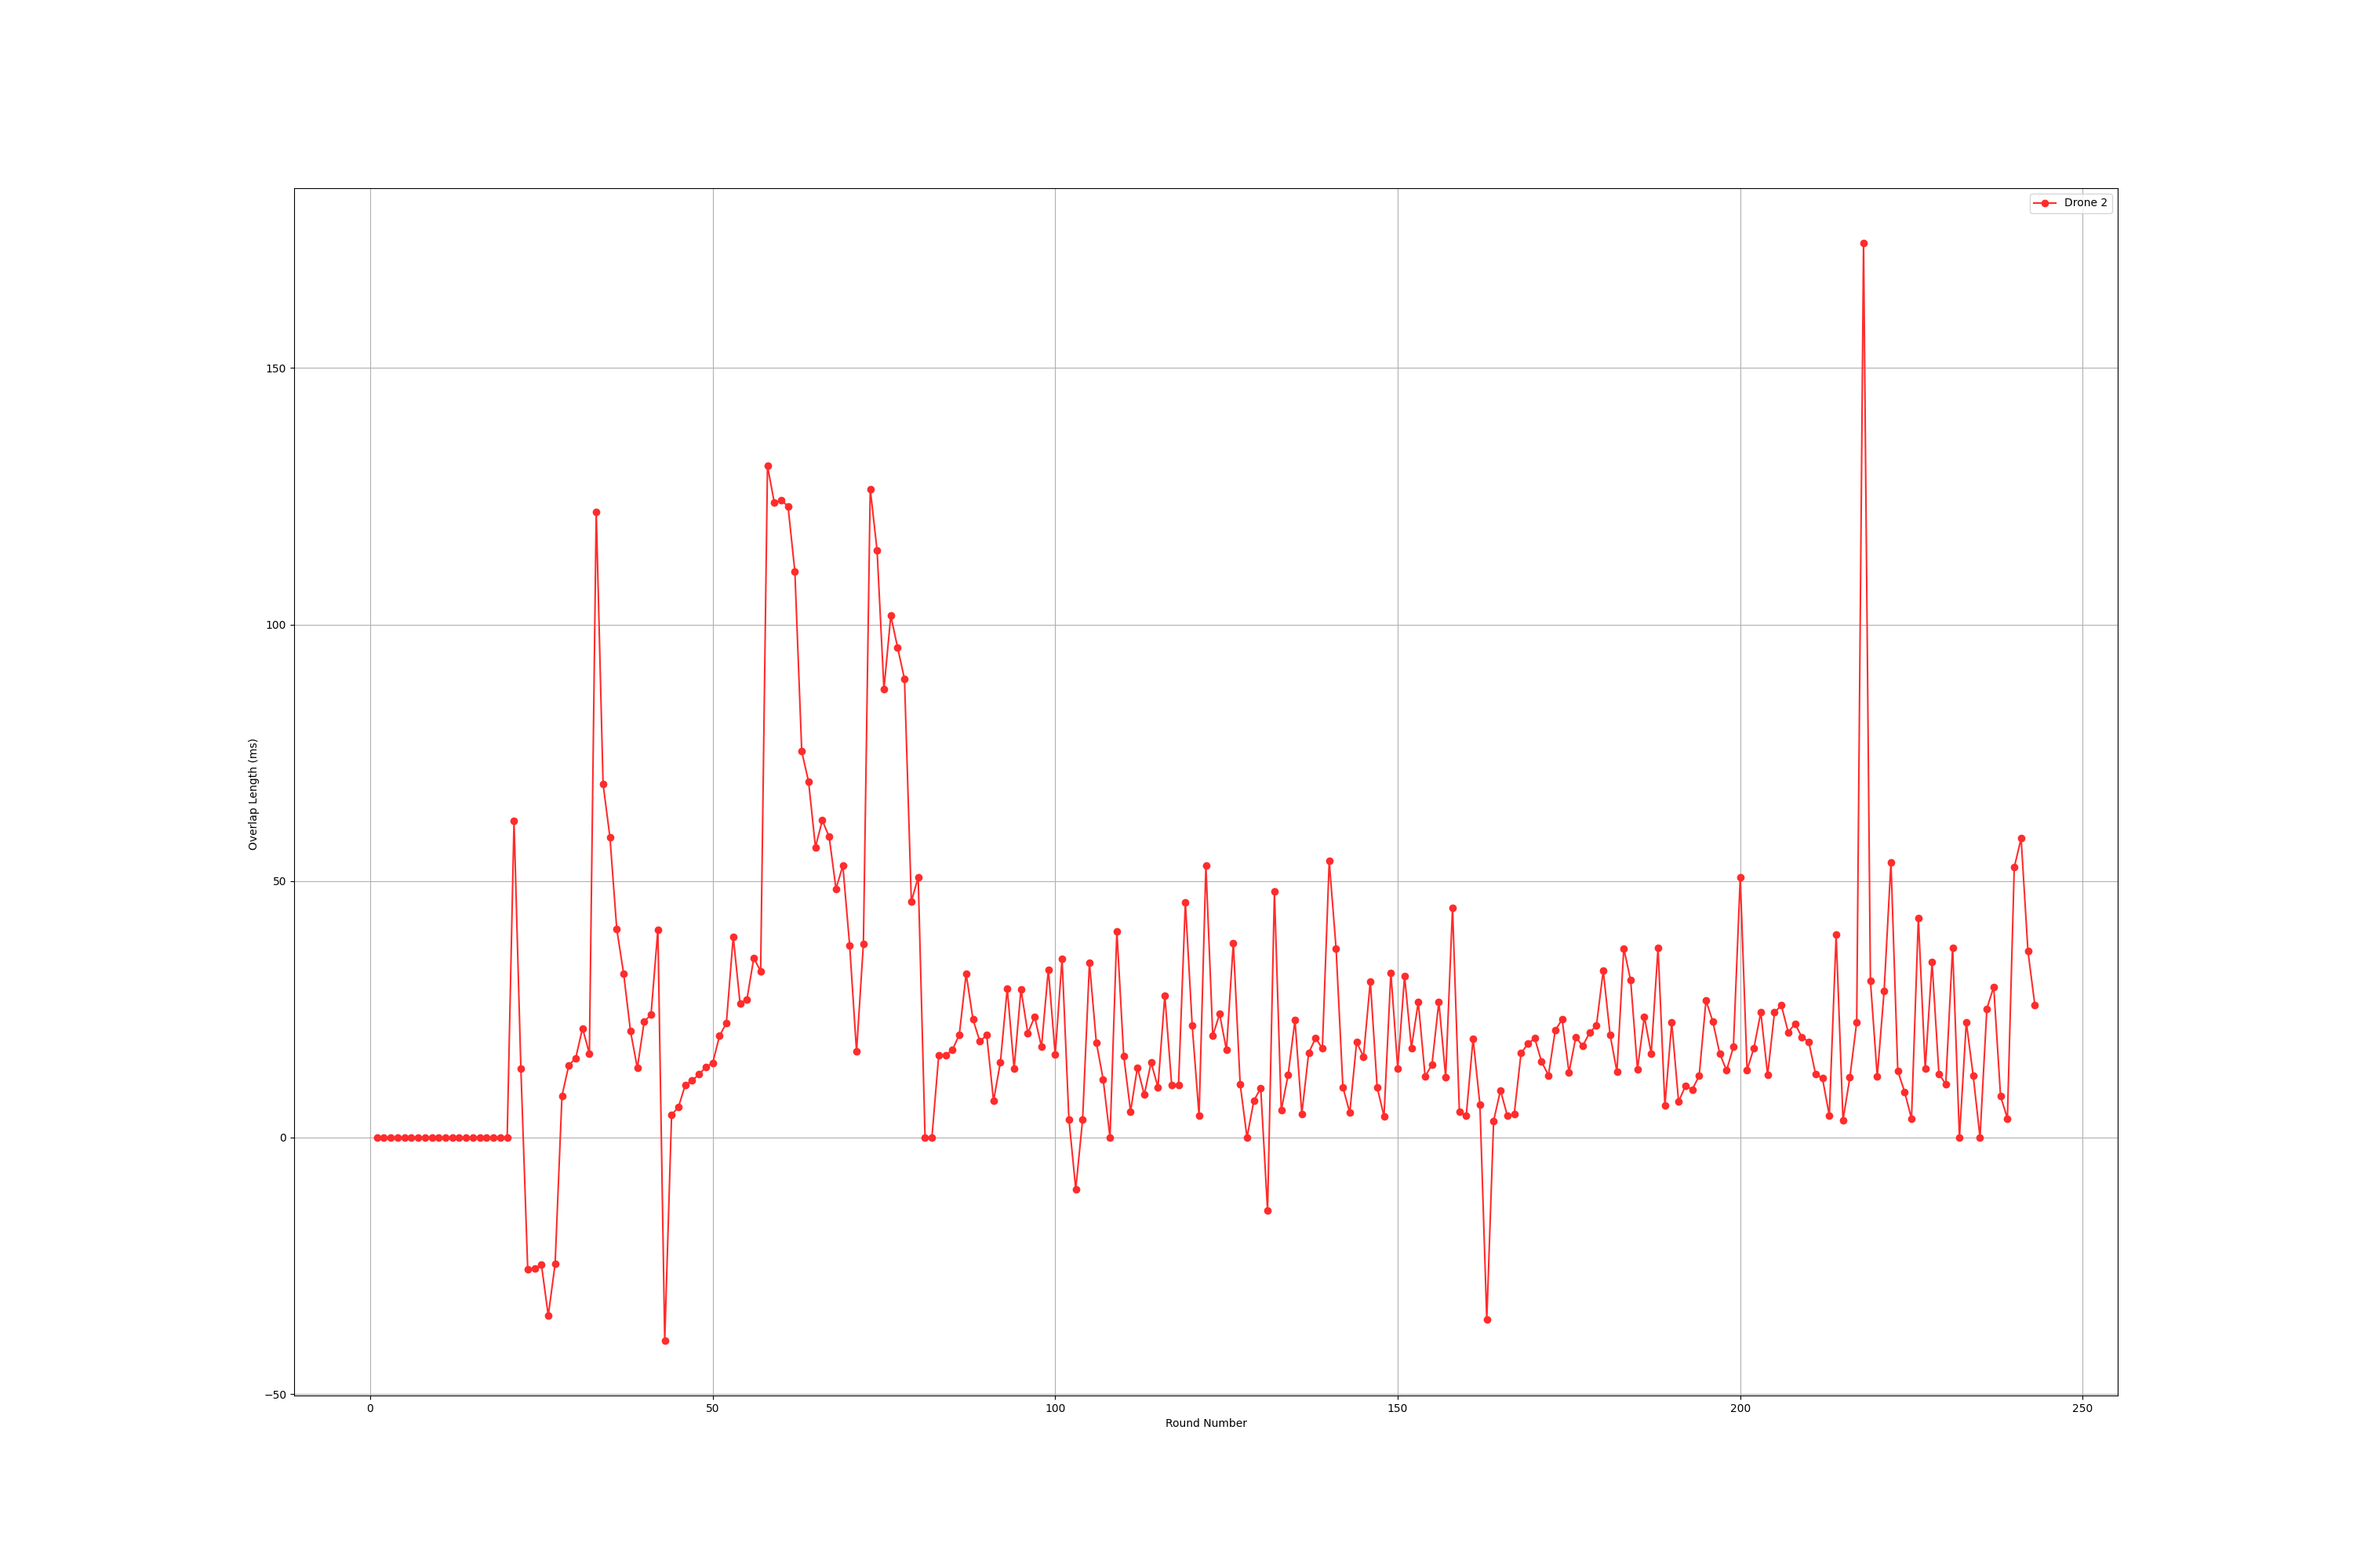
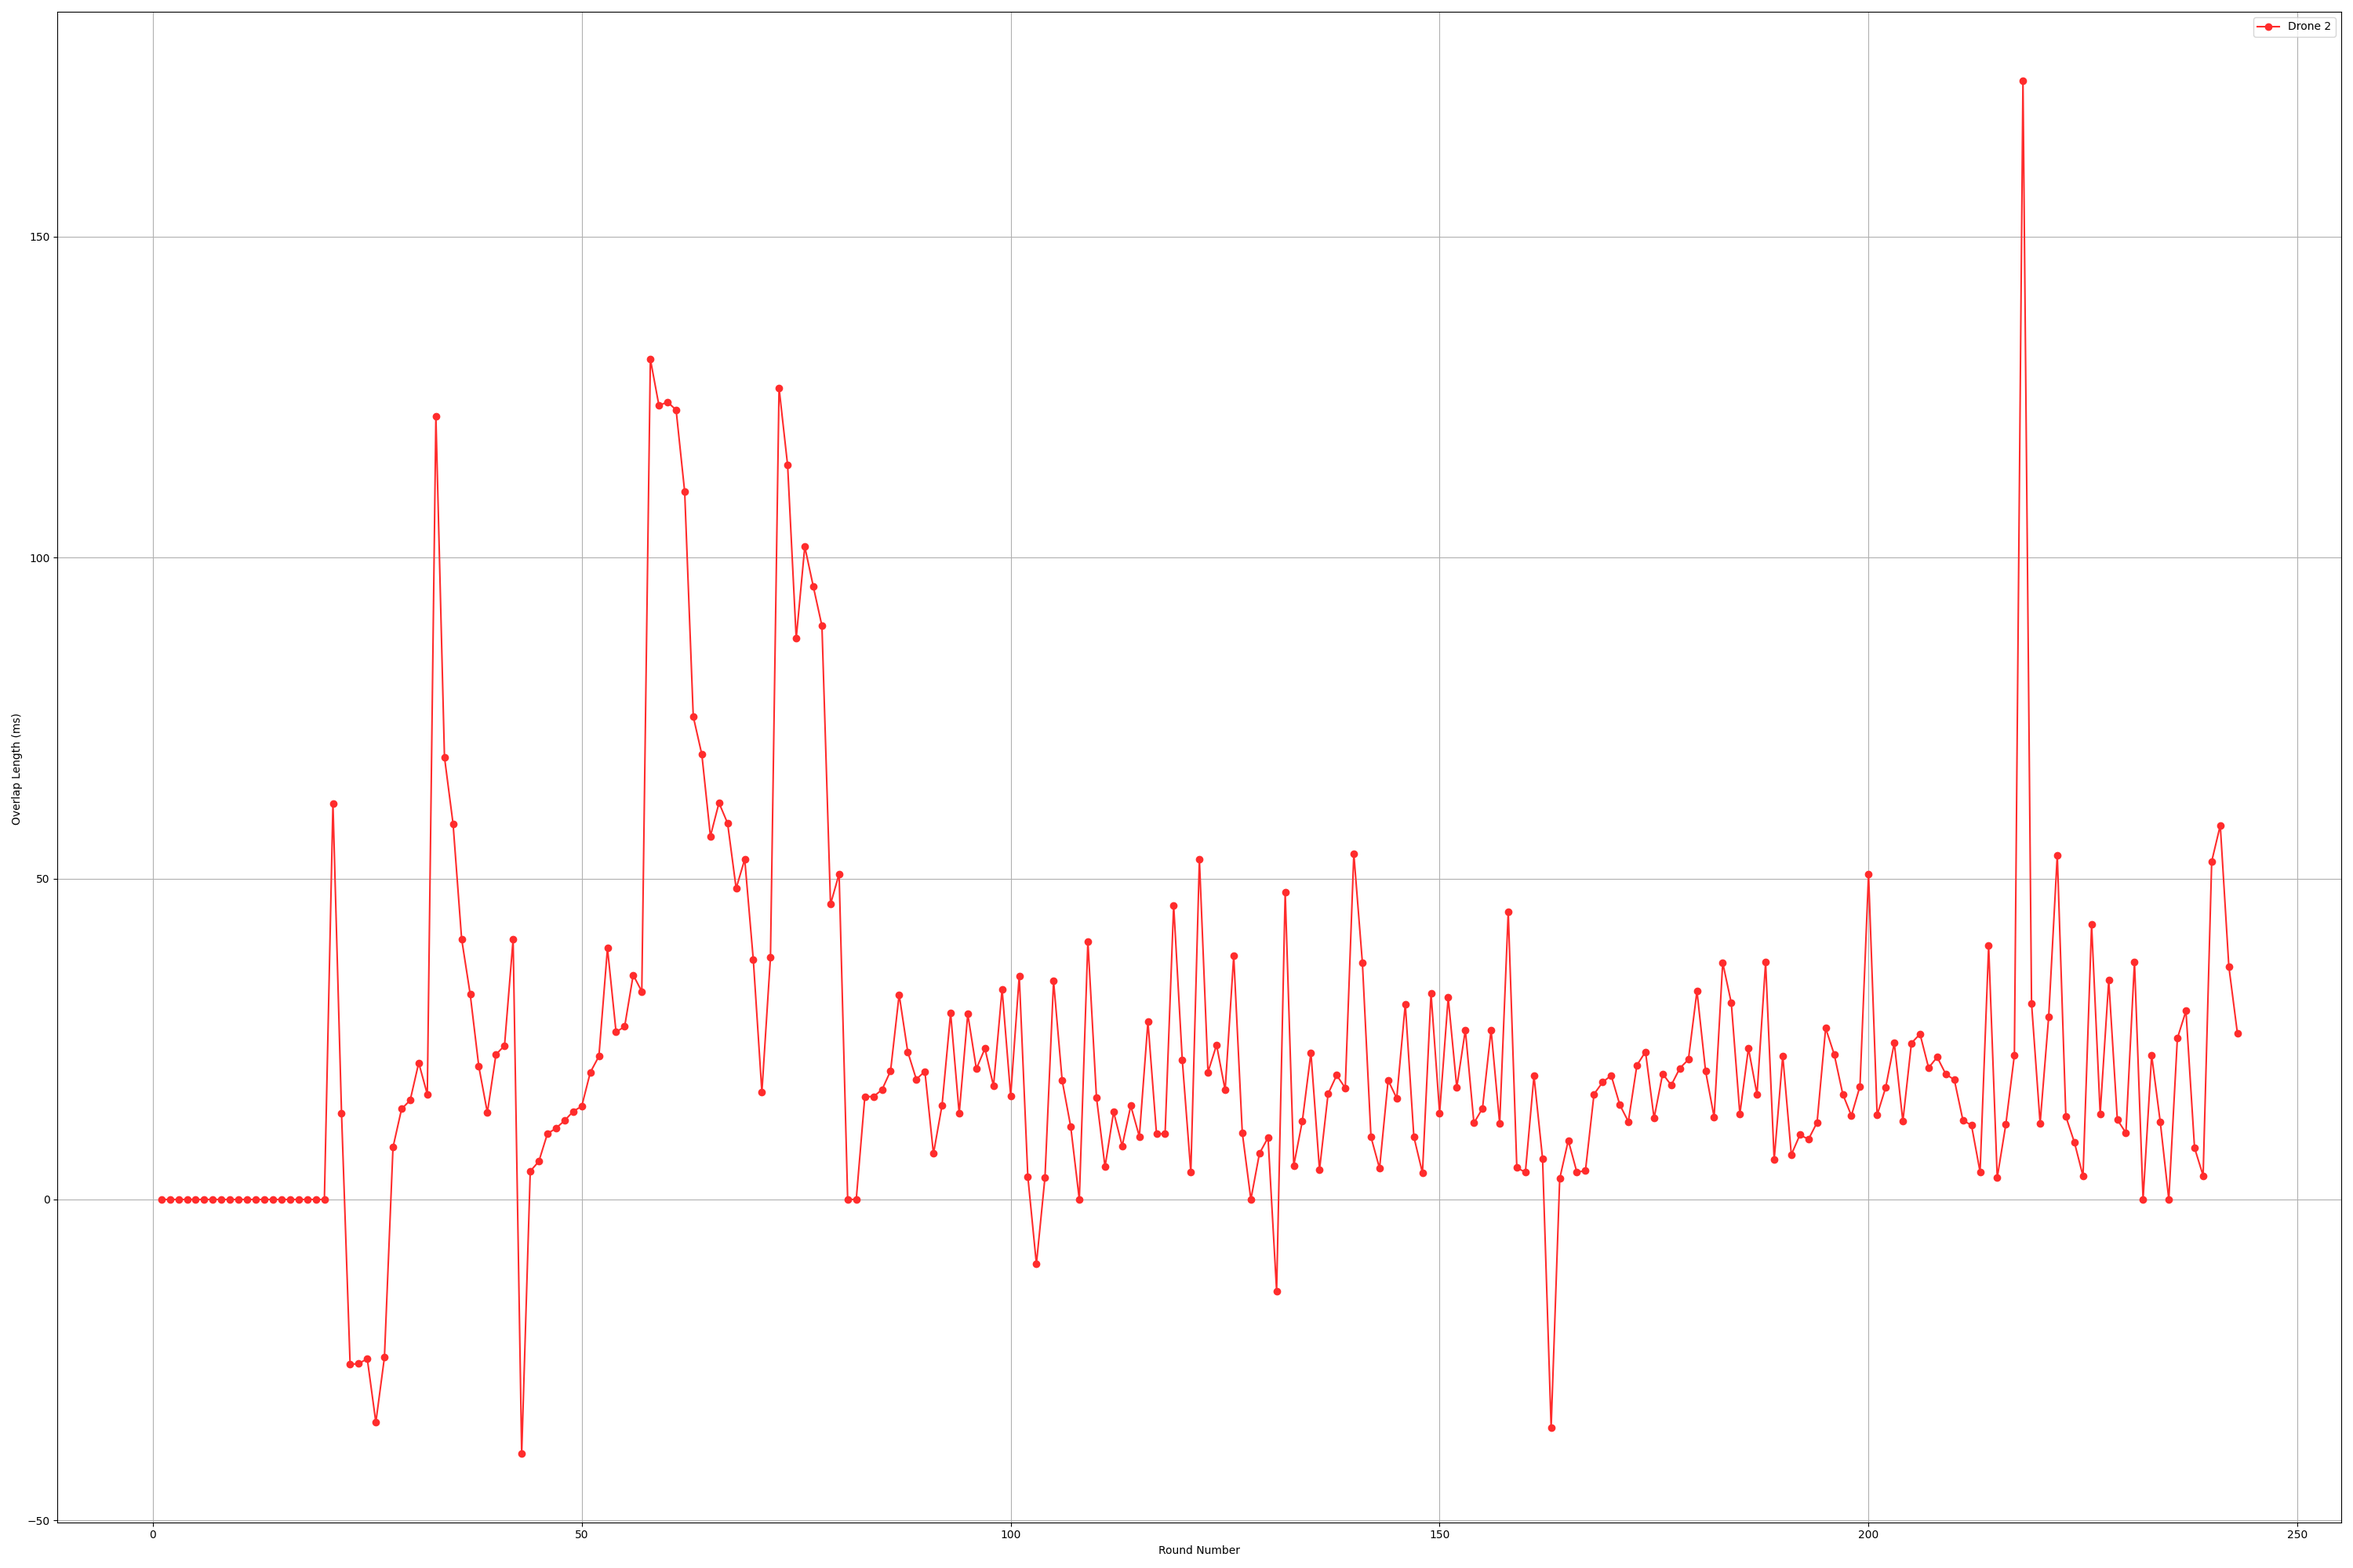
New charts

diff --git a/docs/logs/processTrace.py b/docs/logs/processTrace.py
@@ -530,6 +530,7 @@ def compute_overlap(path):
     plt.grid()
     plt.xlabel("Round Number")
     plt.ylabel("Overlap Length (ms) ")
+    plt.tight_layout()
     plt.savefig('./' + TEST_NAME +'/' + TEST_TYPE + '/' + 'slot-overlap-1.png')
 
     plt.clf()
@@ -538,6 +539,7 @@ def compute_overlap(path):
     plt.grid()
     plt.xlabel("Round Number")
     plt.ylabel("Overlap Length (ms) ")
+    plt.tight_layout()
     plt.savefig('./' + TEST_NAME +'/' + TEST_TYPE + '/' + 'slot-overlap-2.png')
 
     plt.clf()
@@ -546,6 +548,7 @@ def compute_overlap(path):
     plt.grid()
     plt.xlabel("Round Number")
     plt.ylabel("Overlap Length (ms) ")
+    plt.tight_layout()
     plt.savefig('./' + TEST_NAME +'/' + TEST_TYPE + '/' + 'slot-overlap-3.png')
 
     plt.clf()
@@ -554,6 +557,7 @@ def compute_overlap(path):
     plt.grid()
     plt.xlabel("Round Number")
     plt.ylabel("Overlap Length (ms) ")
+    plt.tight_layout()
     plt.savefig('./' + TEST_NAME +'/' + TEST_TYPE + '/' + 'slot-overlap-4.png')
 
     plt.clf()
@@ -562,6 +566,7 @@ def compute_overlap(path):
     plt.grid()
     plt.xlabel("Round Number")
     plt.ylabel("Overlap Length (ms) ")
+    plt.tight_layout()
     plt.savefig('./' + TEST_NAME +'/' + TEST_TYPE + '/' + 'slot-overlap-5.png')
 
     plt.clf()
@@ -570,8 +575,22 @@ def compute_overlap(path):
     plt.grid()
     plt.xlabel("Round Number")
     plt.ylabel("Overlap Length (ms) ")
+    plt.tight_layout()
     plt.savefig('./' + TEST_NAME +'/' + TEST_TYPE + '/' + 'slot-overlap-6.png')
 
+    plt.clf()
+    plt.plot(saved_overlap.keys(), y_data[DRONE_1_ID], marker='o', linestyle='-', color=node_colors[DRONE_1_ID], label = "Drone 1")
+    plt.plot(saved_overlap.keys(), y_data[DRONE_2_ID], marker='o', linestyle='-', color=node_colors[DRONE_2_ID], label = "Drone 2")
+    plt.plot(saved_overlap.keys(), y_data[DRONE_3_ID], marker='o', linestyle='-', color=node_colors[DRONE_3_ID], label = "Drone 3")
+    plt.plot(saved_overlap.keys(), y_data[DRONE_4_ID], marker='o', linestyle='-', color=node_colors[DRONE_4_ID], label = "Drone 4")
+    plt.plot(saved_overlap.keys(), y_data[DRONE_5_ID], marker='o', linestyle='-', color=node_colors[DRONE_5_ID], label = "Drone 5")
+    plt.plot(saved_overlap.keys(), y_data[DRONE_6_ID], marker='o', linestyle='-', color=node_colors[DRONE_6_ID], label = "Drone 6")
+    plt.legend()
+    plt.grid()
+    plt.xlabel("Round Number")
+    plt.ylabel("Overlap Length (ms) ")
+    plt.tight_layout()
+    plt.savefig('./' + TEST_NAME +'/' + TEST_TYPE + '/' + 'slot-overlap.png')
 
 
 
